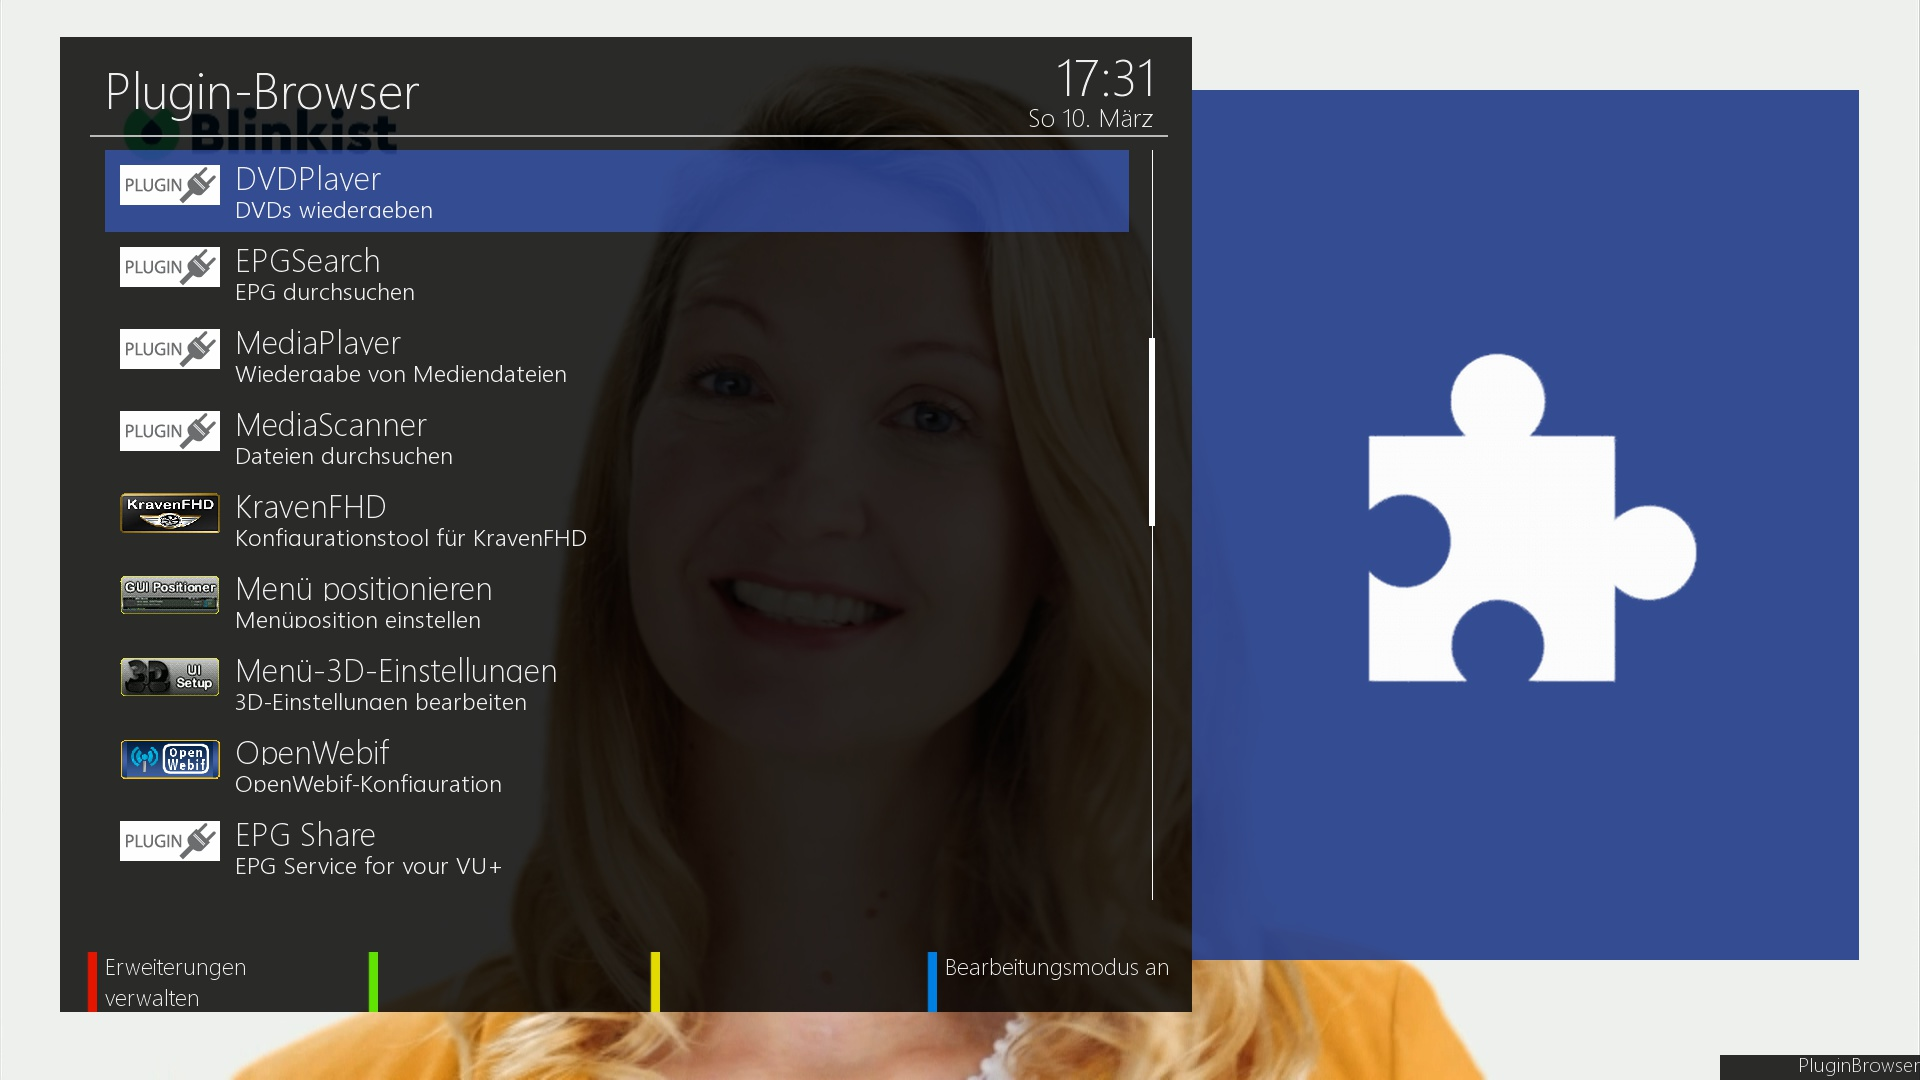
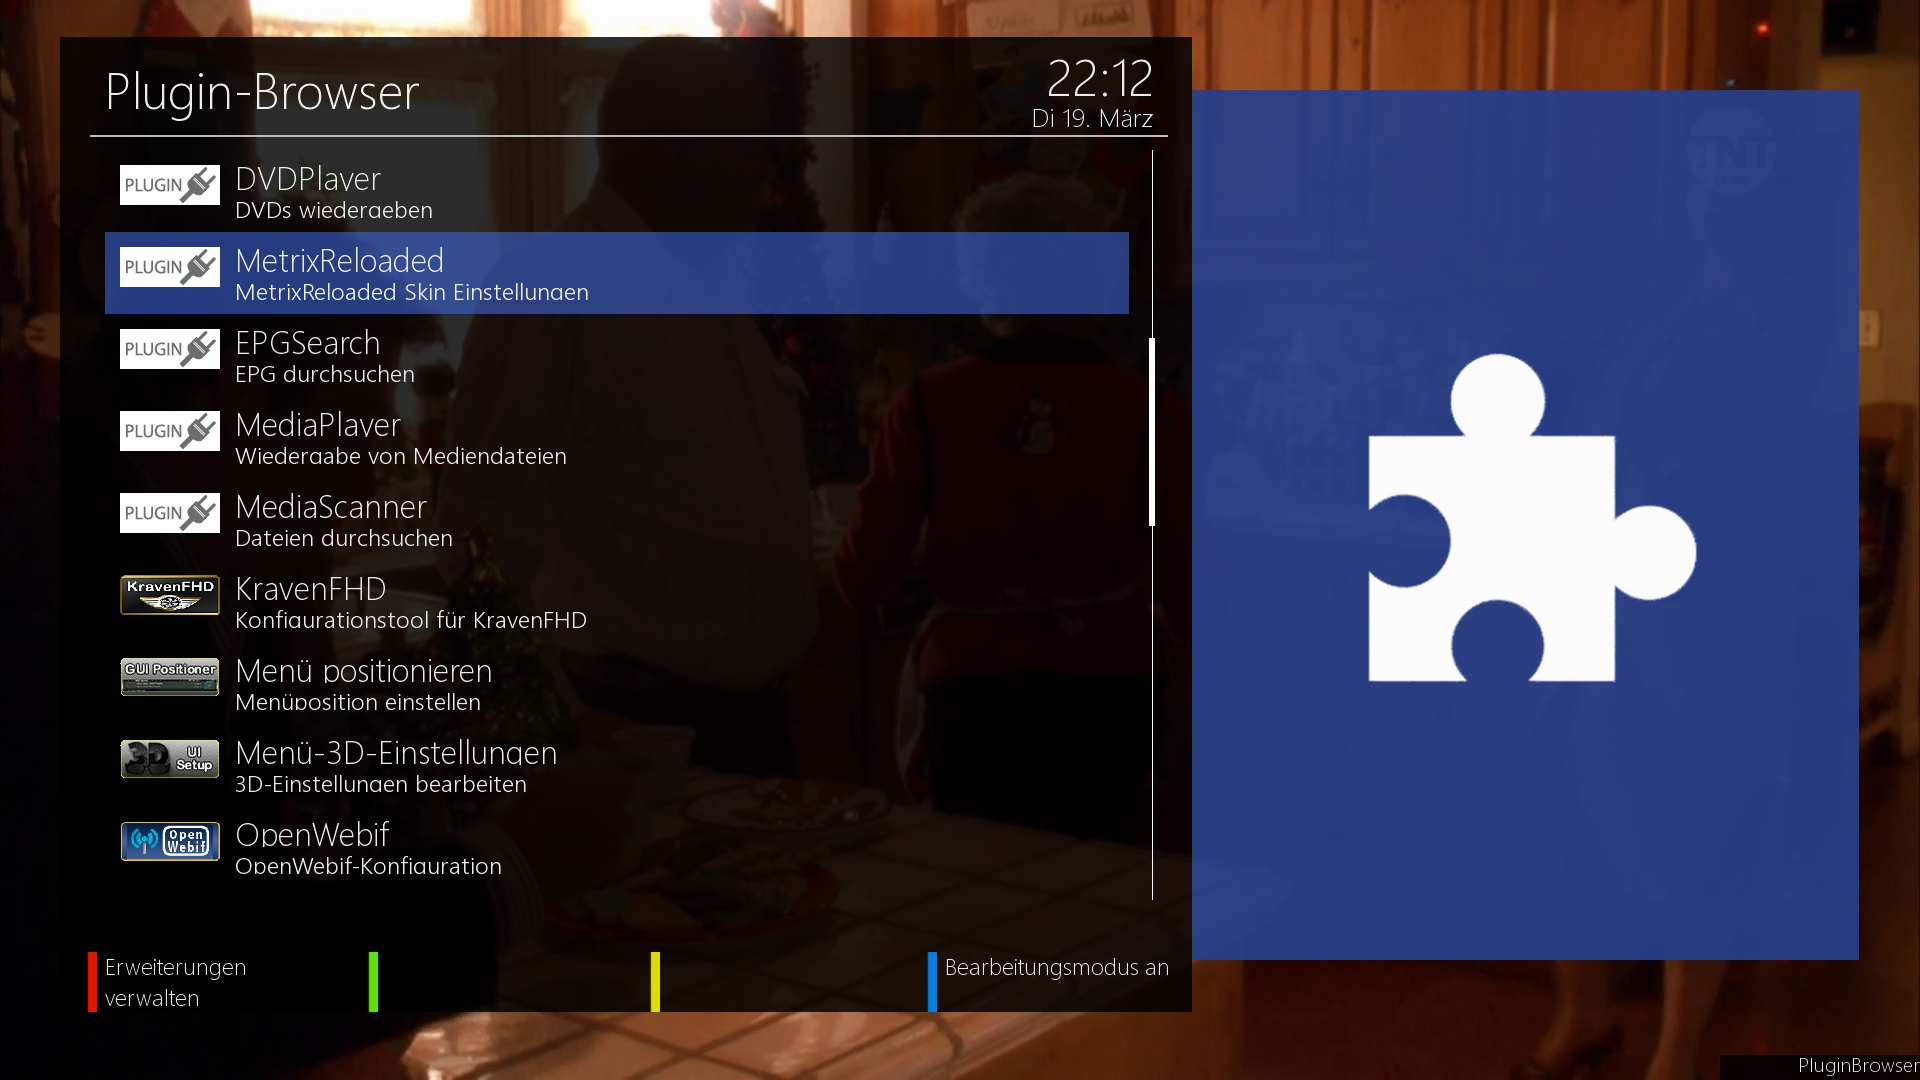
screenshots added

diff --git a/README.md b/README.md
@@ -32,9 +32,10 @@ Mit Hilfe der **merger.exe** wird aus den screenFiles die [skin.xml](https://git
 
 ## Screenshots
 <p align="center">
-  <img src="screenshots/contextMenu.jpg?sanitize=true&raw=true" title="ContextMenu" width="400"/>
-  <img src="screenshots/infobar.jpg?sanitize=true&raw=true" title="InfoBar" width="400"/>
-  <img src="screenshots/infoBarZapHistory.jpg?sanitize=true&raw=true" title="InfoBarZapHistory" width="400"/>
+<img src="screenshots/MetrixReloadedSetup.jpg?sanitize=true&raw=true" title="MetrixReloadedSetup" width="400"/>
+<img src="screenshots/contextMenu.jpg?sanitize=true&raw=true" title="ContextMenu" width="400"/>
+<img src="screenshots/infobar.jpg?sanitize=true&raw=true" title="InfoBar" width="400"/>
+<img src="screenshots/infoBarZapHistory.jpg?sanitize=true&raw=true" title="InfoBarZapHistory" width="400"/>
 <img src="screenshots/messageBox.jpg?sanitize=true&raw=true" title="MessageBox" width="400"/>
 <img src="screenshots/moviePlayer.jpg?sanitize=true&raw=true" title="MoviePlayer" width="400"/>
 <img src="screenshots/movieSelection.jpg?sanitize=true&raw=true" title="MovieSelection" width="400"/>
@@ -43,6 +44,12 @@ Mit Hilfe der **merger.exe** wird aus den screenFiles die [skin.xml](https://git
 <img src="screenshots/timerEditList.jpg?sanitize=true&raw=true" title="TimerEditList" width="400"/>
 <img src="screenshots/timerEntry.jpg?sanitize=true&raw=true" title="TimerEntry" width="400"/>
 <img src="screenshots/vtiPanel.jpg?sanitize=true&raw=true" title="VtiPanel" width="400"/>
+<img src="screenshots/AtileHD_Config.jpg?sanitize=true&raw=true" title="AtileHD_Config" width="400"/>
+<img src="screenshots/ChannelSelection.jpg?sanitize=true&raw=true" title="ChannelSelection" width="400"/>
+<img src="screenshots/EPGSelection.jpg?sanitize=true&raw=true" title="EPGSelection" width="400"/>
+<img src="screenshots/GraphMultiEPG.jpg?sanitize=true&raw=true" title="GraphMultiEPG" width="400"/>
+<img src="screenshots/GraphMultiEPG2.jpg?sanitize=true&raw=true" title="GraphMultiEPG2" width="400"/>
+<img src="screenshots/GraphMultiEPG3.jpg?sanitize=true&raw=true" title="GraphMultiEPG3" width="400"/>
 </p>
 
 ## Changelog
